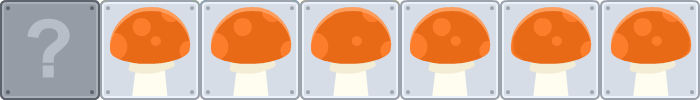
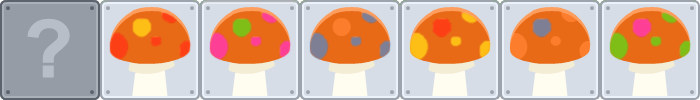
Balancing and tweaking the game a bit

diff --git a/card-flipper/Constants.js b/card-flipper/Constants.js
@@ -6,11 +6,9 @@ var Constants = new function() {
 	this.GAME_SEED 				= 1234;
 	this.GAME_WIDTH 			= 1024;
 	this.GAME_HEIGHT 			= 768;
-	this.GAME_MATCH_DURATION	= 5 * 60 * 1000; // Duration, in milliseconds, of a single match.
+	this.GAME_MATCH_DURATION	= 7 * 60 * 1000; // Duration, in milliseconds, of a single match.
 	this.GAME_ENABLE_DATA_LOG	= true; 	// Defines if the game should collect and send anonymous data regarding usage
 	this.GAME_HEALTH_MAX		= 100; 		// Max health points available in the game.
-	this.GAME_MISTAKE_HEALTH	= 5; 		// How many health point you loose when you make a mistake.
-	this.GAME_CORRECT_HEALTH	= 1; 		// How many health point you win when you make a mistake.
 
 	this.CARDS_MAX 				= 25;		// Total number of cards in the game
 	this.CARDS_PER_ROW 			= 5;		// Amount of cards in each row
@@ -23,30 +21,54 @@ var Constants = new function() {
 	this.HUD_RIGHT_WRONG_TTL	= 1000;				// Time, in milliseconds, the "right/wrong" sign remains on the screen.
 
 	this.DIFFICULTY = [
-		{
+		{ // 1
 			CARDS_FLIPS_TURN: 2,					// Amount of cards that will will be flipped every time a new question is generated.
 			QUESTION_DURATION: 70000,				// Time, in milliseconds, a question should remain active
-			QUESTION_DOWN_PACE: 100					// Time, in milliseconds, to decrease time bar if there are no more cards to flip.
+			QUESTION_DOWN_PACE: 100,				// Time, in milliseconds, to decrease time bar if there are no more cards to flip.
+			GAME_MISTAKE_HEALTH: 5,					// How many health point you loose when you make a mistake.
+			GAME_CORRECT_HEALTH: 5 					// How many health point you win when you make a mistake.
 		},
-		{
+		{ // 2
 			CARDS_FLIPS_TURN: 3,
 			QUESTION_DURATION: 50000,
-			QUESTION_DOWN_PACE: 1100
+			QUESTION_DOWN_PACE: 1100,
+			GAME_MISTAKE_HEALTH: 5,
+			GAME_CORRECT_HEALTH: 5
 		},
-		{
+		{ // 3
 			CARDS_FLIPS_TURN: 4,
 			QUESTION_DURATION: 40000,
-			QUESTION_DOWN_PACE: 1100
+			QUESTION_DOWN_PACE: 1100,
+			GAME_MISTAKE_HEALTH: 5,
+			GAME_CORRECT_HEALTH: 2
 		},
-		{
+		{ // 4
 			CARDS_FLIPS_TURN: 5,
 			QUESTION_DURATION: 20000,
-			QUESTION_DOWN_PACE: 1100
+			QUESTION_DOWN_PACE: 1100,
+			GAME_MISTAKE_HEALTH: 10,
+			GAME_CORRECT_HEALTH: 1
 		},
-		{
-			CARDS_FLIPS_TURN: 6,
-			QUESTION_DURATION: 15000,
-			QUESTION_DOWN_PACE: 1100
+		{ // 5
+			CARDS_FLIPS_TURN: 8,
+			QUESTION_DURATION: 10000,
+			QUESTION_DOWN_PACE: 1100,
+			GAME_MISTAKE_HEALTH: 15,
+			GAME_CORRECT_HEALTH: 1
+		},
+		{ // 6
+			CARDS_FLIPS_TURN: 10,
+			QUESTION_DURATION: 10000,
+			QUESTION_DOWN_PACE: 1100,
+			GAME_MISTAKE_HEALTH: 20,
+			GAME_CORRECT_HEALTH: 1
+		},
+		{ // 7
+			CARDS_FLIPS_TURN: 12,
+			QUESTION_DURATION: 10000,
+			QUESTION_DOWN_PACE: 1100,
+			GAME_MISTAKE_HEALTH: 25,
+			GAME_CORRECT_HEALTH: 1
 		}
 	];
 };

diff --git a/card-flipper/LoadState.js b/card-flipper/LoadState.js
@@ -24,7 +24,7 @@ var LoadState = function() {
 		Game.load.image('tutorial-time', 'assets/tutorial_time.png'); // By Fernando Bevilacqua, public domain
 
 		// Assets from external authors
-		Game.load.spritesheet('card', 'assets/card.png?2', 100, 100); // UI pack, by Kenney Vleugels (www.kenney.nl), CC0, http://www.kenney.nl
+		Game.load.spritesheet('card', 'assets/card.png?5', 100, 100); // UI pack, by Kenney Vleugels (www.kenney.nl), CC0, http://www.kenney.nl
 		Game.load.spritesheet('blue-button', 'assets/blue_button.png', 190, 49); // UI pack, by Kenney Vleugels (www.kenney.nl), CC0, http://www.kenney.nl
 		Game.load.image('dialog-small', 'assets/dialog_small.png'); // UI pack, by Kenney Vleugels (www.kenney.nl), CC0, http://www.kenney.nl
 		Game.load.image('deck-background', 'assets/deck_background.png'); // UI pack, by Kenney Vleugels (www.kenney.nl), CC0, http://www.kenney.nl

diff --git a/card-flipper/PlayState.js b/card-flipper/PlayState.js
@@ -132,17 +132,17 @@ var PlayState = function() {
 		if(theType == 'right') {
 			mScore.right++;
 			mTurnBasedScore.right++;
-			mHealth += Constants.GAME_CORRECT_HEALTH;
+			mHealth += getDifficulty().GAME_CORRECT_HEALTH;
 
 		} else if(theType == 'wrong') {
 			mScore.wrong++;
 			mTurnBasedScore.wrong++;
-			mHealth -= Constants.GAME_MISTAKE_HEALTH;
+			mHealth -= getDifficulty().GAME_MISTAKE_HEALTH;
 
 		} else {
 			mScore.miss++;
 			mTurnBasedScore.miss++;
-			mHealth -= Constants.GAME_MISTAKE_HEALTH;
+			mHealth -= getDifficulty().GAME_MISTAKE_HEALTH;
 		}
 
 		// Prevent overfeeding the monster.
